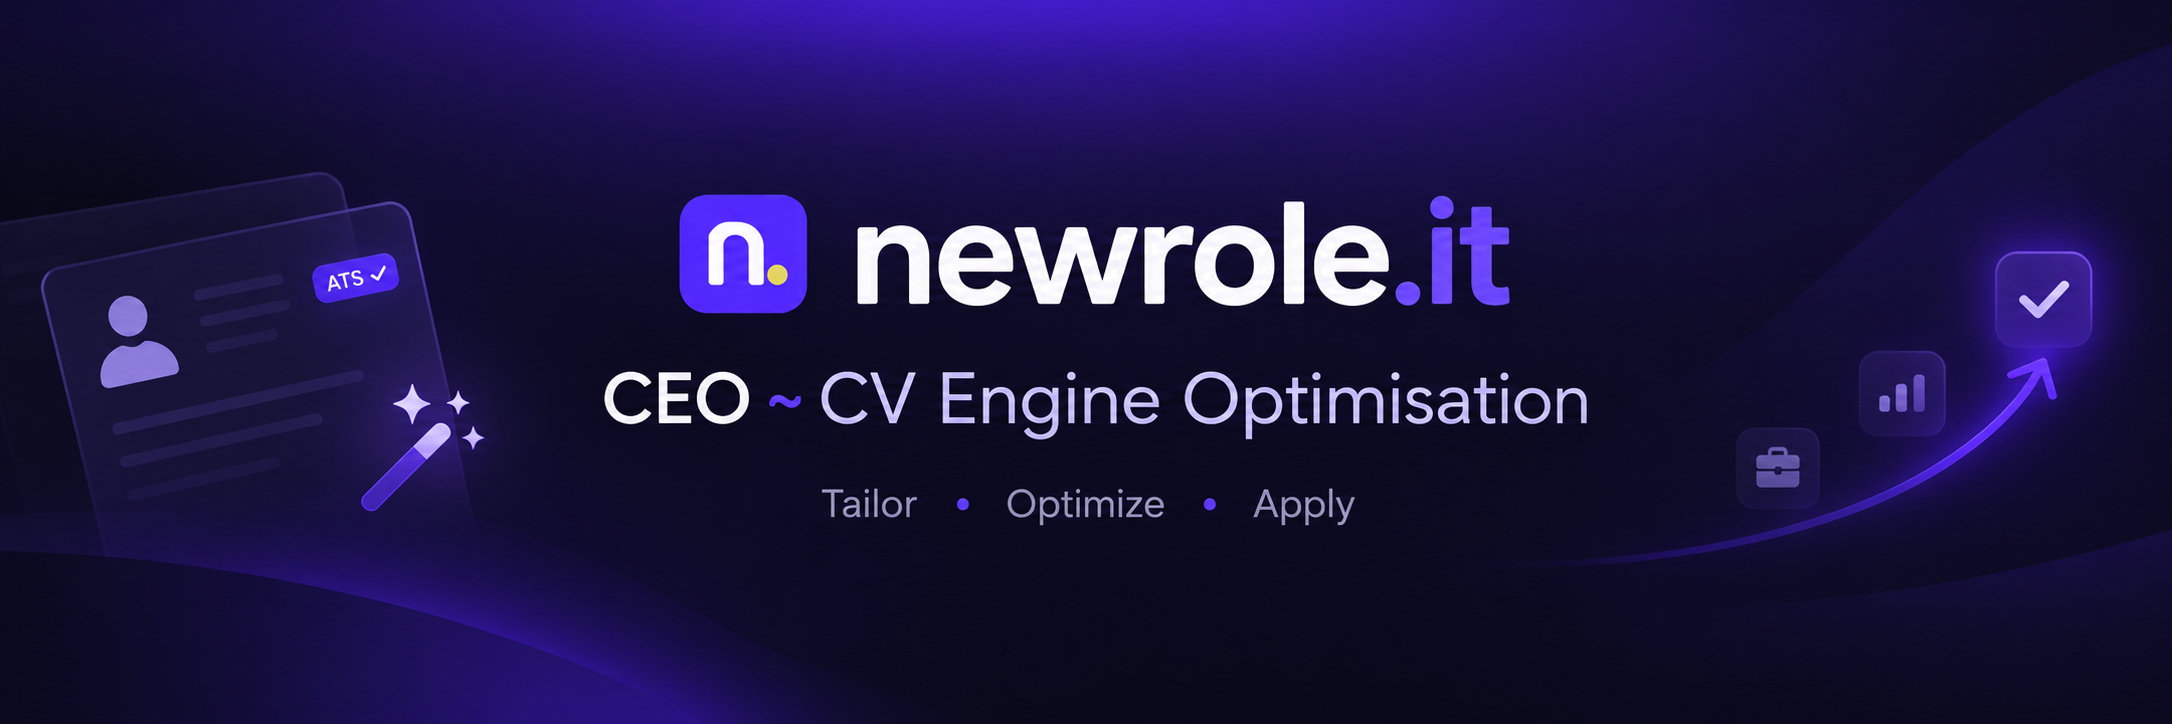
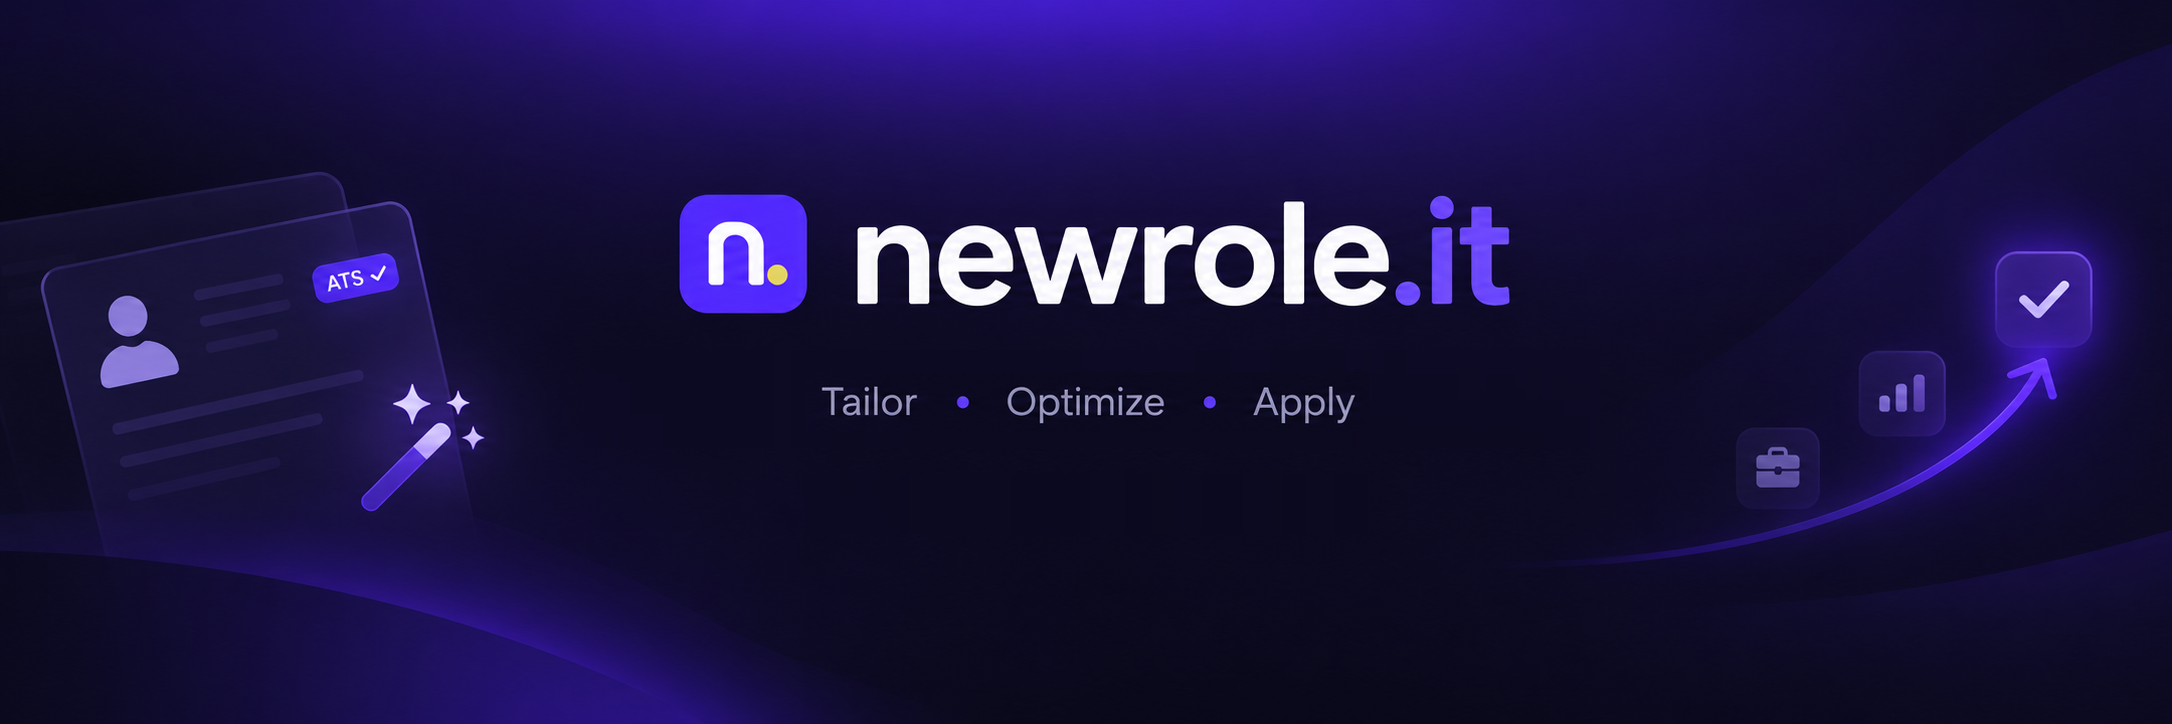
chore: release 0.1.0 (#35)
## What this changes

- Drops the contributor licence agreement (`CLA.md`, its line in
CONTRIBUTING.md and its checkbox in the PR template). Contributions are
licensed under AGPL-3.0 like the rest of the project.
- The match page's score readings and ATS targets no longer name the
resumeskills skills (`job-description-analyzer`,
`resume-ats-optimizer`). The credit line at the end of the page
(`mt.source`) still names them and their MIT source. Polish and English.
- The README banner shows the newrole.it name only; the "CEO ~ CV Engine
Optimisation" line is gone from it and from the one public spec that
named it. The repository name stays.
- README FAQ: the self-hosted version stays open source under AGPL-3.0;
a paid hosted version may come later.
- CHANGELOG: the first release heading, `0.1.0 (2026-11-23)`, over
everything that was under Unreleased. `changelog.test.ts` accepts a
version heading and still checks the order by date.
- SECURITY.md: the latest release and `main` are supported.

## How you checked it

- `npm run lint` (0 errors), `npm run check:boundaries`, `npm run
check:i18n`, `npm run typecheck`: pass.
- `npm run test:workspaces` and `npm run test:extension`: pass.
- Flow tests not run locally: the change touches interface text and docs
only.

🤖 Generated with [Claude Code](https://claude.com/claude-code)

diff --git a/apps/resume-engine-optimization/src/app/i18n/copy-match.ts b/apps/resume-engine-optimization/src/app/i18n/copy-match.ts
@@ -2,7 +2,7 @@
  * Strings for the match dashboard of one offer (/offers/[id]/match, src/app/offers/[id]/match):
  * how the person's CV and profile meet the offer, and what the steps of tailoring found. Keys
  * "mt.". The readings of a score and the targets are the resumeskills skills' own
- * (job-description-analyzer, resume-ats-optimizer); the dashboard names them.
+ * (job-description-analyzer, resume-ats-optimizer); only mt.source names them, as the credit.
  */
 export const matchPl = {
   "mt.title": "Ocena dopasowania",
@@ -21,23 +21,18 @@ export const matchPl = {
   "mt.score.none":
     "Nie da się policzyć wyniku: oferta nie miała treści do analizy albo ocena się nie udała.",
   "mt.band.top": "Spełniasz prawie wszystko",
-  "mt.band.top.hint":
-    "Według skilla job-description-analyzer przy 90–100% warto sprawdzić, czy rola nie jest poniżej Twojego poziomu.",
+  "mt.band.top.hint": "Przy 90–100% warto sprawdzić, czy rola nie jest poniżej Twojego poziomu.",
   "mt.band.excellent": "Bardzo dobre dopasowanie",
-  "mt.band.excellent.hint": "75–89%: według job-description-analyzer warto aplikować od razu.",
+  "mt.band.excellent.hint": "75–89%: warto aplikować od razu.",
   "mt.band.good": "Dobre dopasowanie",
-  "mt.band.good.hint":
-    "60–74%: według job-description-analyzer aplikuj z mocnym listem motywacyjnym.",
+  "mt.band.good.hint": "60–74%: aplikuj z mocnym listem motywacyjnym.",
   "mt.band.stretch": "Rola na wyrost",
-  "mt.band.stretch.hint":
-    "50–59%: według job-description-analyzer aplikuj, jeśli bardzo Ci na tej roli zależy.",
+  "mt.band.stretch.hint": "50–59%: aplikuj, jeśli bardzo Ci na tej roli zależy.",
   "mt.band.under": "Za mało spełnionych wymagań",
-  "mt.band.under.hint":
-    "Poniżej 50%: według job-description-analyzer lepiej odpuścić, chyba że to wymarzona rola.",
+  "mt.band.under.hint": "Poniżej 50%: lepiej odpuścić, chyba że to wymarzona rola.",
   "mt.formula":
     "Wynik liczy kod, nie model: wymagania obowiązkowe ważą 70%, mile widziane 30%, a częściowe spełnienie liczy się w połowie. Wymaganie jest spełnione tylko wtedy, gdy kod znalazł w Twoim CV lub profilu fragment, który to pokazuje.",
-  "mt.critical":
-    "Braki krytyczne: {n}. Skill job-description-analyzer uznaje taki brak za powód, by nie aplikować.",
+  "mt.critical": "Braki krytyczne: {n}. Taki brak to zwykle powód, by nie aplikować.",
   "mt.group.required": "Obowiązkowe",
   "mt.group.preferred": "Mile widziane",
   "mt.group.soft": "Kompetencje miękkie",
@@ -49,8 +44,7 @@ export const matchPl = {
   "mt.kpi.label": "Liczby z kontroli",
   "mt.kpi.ats": "Słowa kluczowe pod ATS",
   "mt.kpi.atsValue": "{before}% → {after}%",
-  "mt.kpi.atsSub":
-    "Wymagane w CV: {found} z {total}. Cel według resume-ats-optimizer: 80% i więcej.",
+  "mt.kpi.atsSub": "Wymagane w CV: {found} z {total}. Cel: 80% i więcej.",
   "mt.kpi.atsLink": "Zobacz, których brakuje",
   "mt.kpi.numbers": "Punkty z liczbą",
   "mt.kpi.change": "{before} → {after}",
@@ -83,7 +77,7 @@ export const matchPl = {
 
   "mt.kw.title": "Słowa kluczowe z oferty",
   "mt.kw.sub":
-    "Ile razy każde pada w gotowym CV. Według resume-ats-optimizer najważniejsze powinny paść 2–4 razy, pozostałe 1–2 razy.",
+    "Ile razy każde pada w gotowym CV. Najważniejsze powinny paść 2–4 razy, pozostałe 1–2 razy.",
   "mt.kw.count": "{n}×",
   "mt.kw.required.head": "Wymagane: w CV {found} z {total}",
   "mt.kw.preferred.head": "Mile widziane: w CV {found} z {total}",
@@ -96,8 +90,7 @@ export const matchPl = {
   "mt.kw.none": "Oferta nie dała słów kluczowych do sprawdzenia.",
 
   "mt.ats.title": "Kontrola pod ATS",
-  "mt.ats.sub":
-    "Co w gotowym CV sprawdza kod, według list resume-ats-optimizer i resume-bullet-writer.",
+  "mt.ats.sub": "Co w gotowym CV sprawdza kod.",
   "mt.ats.ok": "W porządku",
   "mt.ats.fix": "Do poprawy",
   "mt.ats.email": "Adres e-mail w nagłówku",
@@ -126,8 +119,7 @@ export const matchPl = {
   "mt.offer.seniority": "Poziom: {level}",
   "mt.offer.resp": "Główne zadania",
   "mt.offer.flags": "Sygnały ostrzegawcze",
-  "mt.offer.flagsNone":
-    "Model nie znalazł w treści sygnałów ostrzegawczych z listy job-description-analyzer.",
+  "mt.offer.flagsNone": "Model nie znalazł w treści sygnałów ostrzegawczych.",
   "mt.offer.signals": "Dobre sygnały",
   "mt.offer.none": "Oferta nie miała treści do analizy.",
 
@@ -214,22 +206,18 @@ export const matchEn: Record<keyof typeof matchPl, string> = {
   "mt.score.none":
     "No score could be counted: the offer had no text to read, or the match step failed.",
   "mt.band.top": "You meet nearly everything",
-  "mt.band.top.hint":
-    "The job-description-analyzer skill says that at 90–100% it's worth checking the role isn't below your level.",
+  "mt.band.top.hint": "At 90–100%, it's worth checking the role isn't below your level.",
   "mt.band.excellent": "Excellent fit",
-  "mt.band.excellent.hint": "75–89%: job-description-analyzer says apply right away.",
+  "mt.band.excellent.hint": "75–89%: apply right away.",
   "mt.band.good": "Good fit",
-  "mt.band.good.hint": "60–74%: job-description-analyzer says apply with a strong cover letter.",
+  "mt.band.good.hint": "60–74%: apply with a strong cover letter.",
   "mt.band.stretch": "A stretch role",
-  "mt.band.stretch.hint":
-    "50–59%: job-description-analyzer says apply if you really want this role.",
+  "mt.band.stretch.hint": "50–59%: apply if you really want this role.",
   "mt.band.under": "Too few requirements met",
-  "mt.band.under.hint":
-    "Under 50%: job-description-analyzer says skip it, unless it's your dream job.",
+  "mt.band.under.hint": "Under 50%: better to skip it, unless it's your dream job.",
   "mt.formula":
     "Code counts the score, not the model: required items weigh 70%, nice-to-haves 30%, and a partial match counts as half. A requirement only counts as met when code found a fragment of your CV or profile that shows it.",
-  "mt.critical":
-    "Critical gaps: {n}. The job-description-analyzer skill treats such a gap as a reason not to apply.",
+  "mt.critical": "Critical gaps: {n}. A gap like this is usually a reason not to apply.",
   "mt.group.required": "Required",
   "mt.group.preferred": "Nice to have",
   "mt.group.soft": "Soft skills",
@@ -241,8 +229,7 @@ export const matchEn: Record<keyof typeof matchPl, string> = {
   "mt.kpi.label": "Numbers from the checks",
   "mt.kpi.ats": "ATS keywords",
   "mt.kpi.atsValue": "{before}% → {after}%",
-  "mt.kpi.atsSub":
-    "Required in the CV: {found} of {total}. Target per resume-ats-optimizer: 80% or more.",
+  "mt.kpi.atsSub": "Required in the CV: {found} of {total}. Target: 80% or more.",
   "mt.kpi.atsLink": "See which are missing",
   "mt.kpi.numbers": "Bullets with a number",
   "mt.kpi.change": "{before} → {after}",
@@ -275,7 +262,7 @@ export const matchEn: Record<keyof typeof matchPl, string> = {
 
   "mt.kw.title": "The offer's keywords",
   "mt.kw.sub":
-    "How many times each appears in the finished CV. Per resume-ats-optimizer, the most important ones should appear 2–4 times, the rest 1–2 times.",
+    "How many times each appears in the finished CV. The most important ones should appear 2–4 times, the rest 1–2 times.",
   "mt.kw.count": "{n}×",
   "mt.kw.required.head": "Required: {found} of {total} in the CV",
   "mt.kw.preferred.head": "Nice to have: {found} of {total} in the CV",
@@ -288,8 +275,7 @@ export const matchEn: Record<keyof typeof matchPl, string> = {
   "mt.kw.none": "The offer gave no keywords to check.",
 
   "mt.ats.title": "ATS check",
-  "mt.ats.sub":
-    "What code checks in the finished CV, after the resume-ats-optimizer and resume-bullet-writer lists.",
+  "mt.ats.sub": "What code checks in the finished CV.",
   "mt.ats.ok": "Fine",
   "mt.ats.fix": "To fix",
   "mt.ats.email": "Email address in the header",
@@ -318,8 +304,7 @@ export const matchEn: Record<keyof typeof matchPl, string> = {
   "mt.offer.seniority": "Level: {level}",
   "mt.offer.resp": "Main responsibilities",
   "mt.offer.flags": "Warning signs",
-  "mt.offer.flagsNone":
-    "The model found none of the job-description-analyzer warning signs in the text.",
+  "mt.offer.flagsNone": "The model found no warning signs in the text.",
   "mt.offer.signals": "Good signs",
   "mt.offer.none": "The offer had no text to read.",
 

diff --git a/apps/resume-engine-optimization/src/shared/changelog.test.ts b/apps/resume-engine-optimization/src/shared/changelog.test.ts
@@ -50,10 +50,16 @@ describe("CHANGELOG.md", () => {
     expect(releases.length).toBeGreaterThan(0)
   })
 
-  it("lists dates newest first, after Unreleased", () => {
+  it("lists releases and dates newest first, after Unreleased", () => {
     const titles = releases.map((release) => release.title).filter((t) => t !== "Unreleased")
-    for (const title of titles) expect(title).toMatch(/^\d{4}-\d{2}-\d{2}$/)
-    expect(titles).toEqual([...titles].sort().reverse())
+    // A tagged release is "0.1.0 (2026-11-23)"; entries from before tags are a bare date.
+    const dateOf = /^(?:\d+\.\d+\.\d+ \((\d{4}-\d{2}-\d{2})\)|(\d{4}-\d{2}-\d{2}))$/
+    for (const title of titles) expect(title).toMatch(dateOf)
+    const dates = titles.map((title) => {
+      const m = dateOf.exec(title)
+      return m?.[1] ?? m?.[2] ?? ""
+    })
+    expect(dates).toEqual([...dates].sort().reverse())
   })
 
   it("holds plain text only, because the page shows each line as it is", () => {

diff --git a/CHANGELOG.md b/CHANGELOG.md
@@ -1,10 +1,20 @@
 # Changelog
 
-Every change people can notice, newest first. newrole.it has no tagged releases yet, so entries are grouped by the date they reached the main branch. The app shows this file at /changelog.
+Every change people can notice, newest first. Releases are tagged from 0.1.0 on; earlier entries are grouped by the date they reached the main branch. The app shows this file at /changelog.
 
 When you change something people can notice, add a line under Unreleased in the same pull request. Keep to the format below, because the page reads it: `##` for a date, `###` for a group, `-` for one line of plain text.
 
 ## Unreleased
+
+## 0.1.0 (2026-11-23)
+
+The first tagged release. Everything below Unreleased up to here reached the main branch before it.
+
+### Changed
+
+- The contributor licence agreement is gone. A contribution is licensed under AGPL-3.0, like the rest of the project; the pull request template no longer asks you to agree to anything else.
+- The match score's readings and targets no longer name the skills they come from; the line at the end of the page still credits them.
+- The banner at the top of the README shows the newrole.it name only.
 
 ### Fixed
 

diff --git a/CONTRIBUTING.md b/CONTRIBUTING.md
@@ -2,7 +2,6 @@
 
 Bug reports and pull requests are welcome. For anything larger, open an issue first, so we agree on the change before you build it.
 
-- A pull request needs your agreement to the [contributor licence agreement](CLA.md). Tick its box in the pull request template. A pull request without it is not merged.
 - Everyone taking part follows the [code of conduct](CODE_OF_CONDUCT.md).
 - A security problem goes through [SECURITY.md](SECURITY.md), not a public issue.
 
@@ -145,4 +144,4 @@ Fill in the template: what the change does and how you checked it. Tick the CLA 
 
 ## Licence
 
-newrole.it is licensed under the [GNU Affero General Public License v3.0 only](LICENSE) (`AGPL-3.0-only`). Your contribution stays available to everyone under the AGPL in this repository. The [CLA](CLA.md) also lets the people who run the project use it under other terms, and says why.
+newrole.it is licensed under the [GNU Affero General Public License v3.0 only](LICENSE) (`AGPL-3.0-only`). By submitting a contribution, you license it under the same terms.

diff --git a/docs/superpowers/specs/2026-11-13-english-everywhere-design.md b/docs/superpowers/specs/2026-11-13-english-everywhere-design.md
@@ -4,7 +4,7 @@ Approved by the owner on 2026-11-13. Step 1 of 3 before the Show HN launch; step
 
 ## Why
 
-The product, CEO (CV Engine Optimiser), from newrole.it, is about to be shown to an English-speaking audience on Hacker News, with demo videos of the Chrome extension and a README that describes Claude Code use. Today those two parts speak Polish only, so a visitor who installs the product meets Polish panels, and a video of the form filler would show Polish text.
+The product, newrole.it, is about to be shown to an English-speaking audience on Hacker News, with demo videos of the Chrome extension and a README that describes Claude Code use. Today those two parts speak Polish only, so a visitor who installs the product meets Polish panels, and a video of the form filler would show Polish text.
 
 ## What is Polish-only today
 

diff --git a/README.md b/README.md
@@ -229,6 +229,9 @@ No. What the offer asks for and your data does not show is listed as a gap. If y
 **Is it really free?**
 Yes. The only thing that can cost money is the model: Claude Code uses the subscription you already have, and an API key is billed by its provider.
 
+**Will it stay open source?**
+Yes, the self-hosted version stays open source under AGPL-3.0. A paid hosted version may come later, for people who would rather not run it themselves.
+
 **Will it find job offers for me?**
 No. newrole.it works on the offers you bring, by their link.
 

diff --git a/.github/PULL_REQUEST_TEMPLATE.md b/.github/PULL_REQUEST_TEMPLATE.md
@@ -7,4 +7,3 @@
 - [ ] `npm run lint`, `npm run typecheck`, `npm run check:boundaries` and `npm test` pass (`npm run test:db` first, so the test database exists and is migrated).
 - [ ] A change people can notice has a line under Unreleased in [CHANGELOG.md](../CHANGELOG.md).
 - [ ] New interface strings have both Polish and English.
-- [ ] I have read [CLA.md](../CLA.md) and agree to it for this contribution.

diff --git a/SECURITY.md b/SECURITY.md
@@ -2,7 +2,7 @@
 
 ## Supported versions
 
-newrole.it has no tagged releases yet. Only the `main` branch is supported, and security fixes go there.
+Only the latest release and the `main` branch are supported. Security fixes go to `main` and ship in the next release. Releases are listed on the [Releases](https://github.com/newrole-it/CEO/releases) page.
 
 ## Reporting a vulnerability
 
